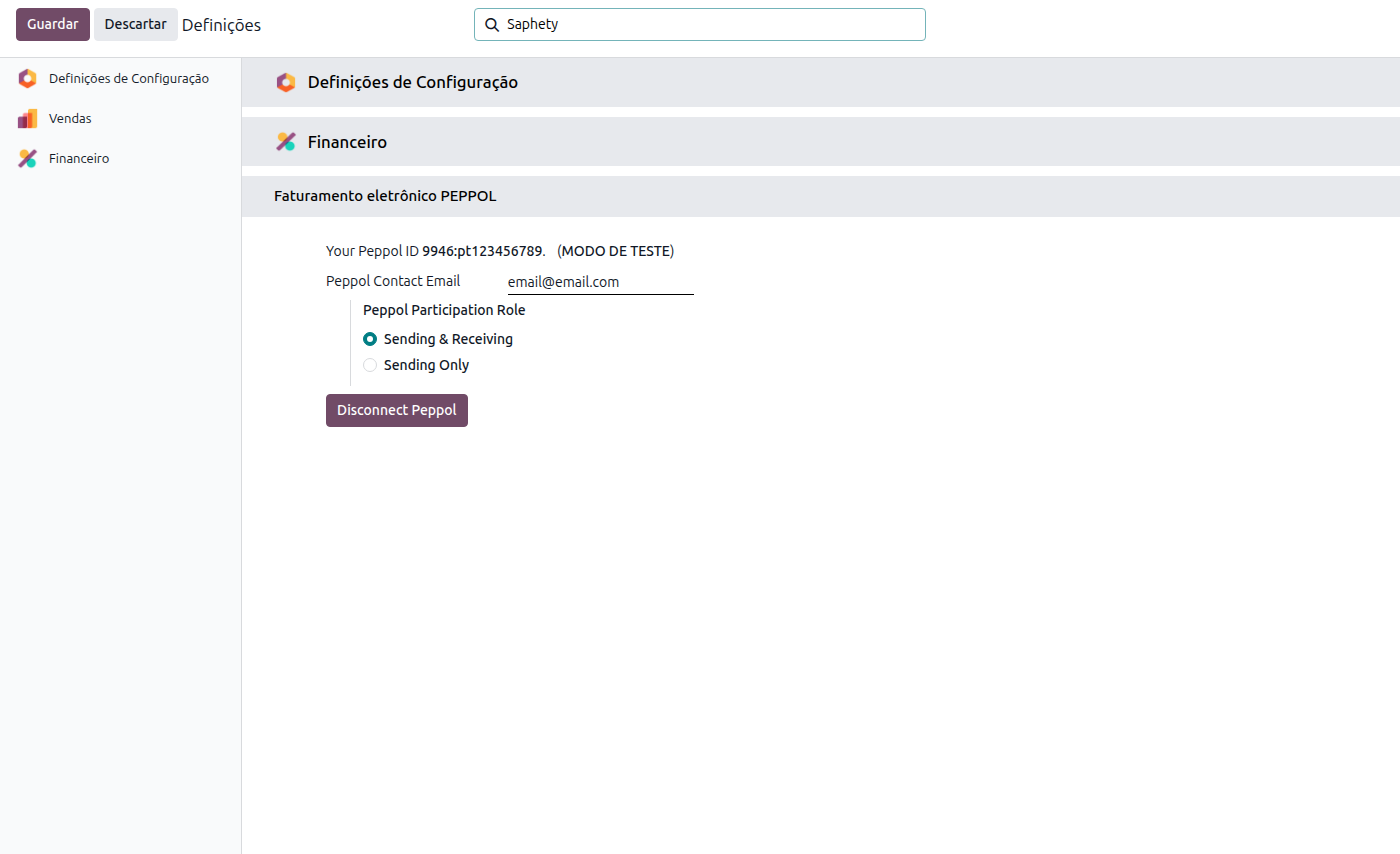
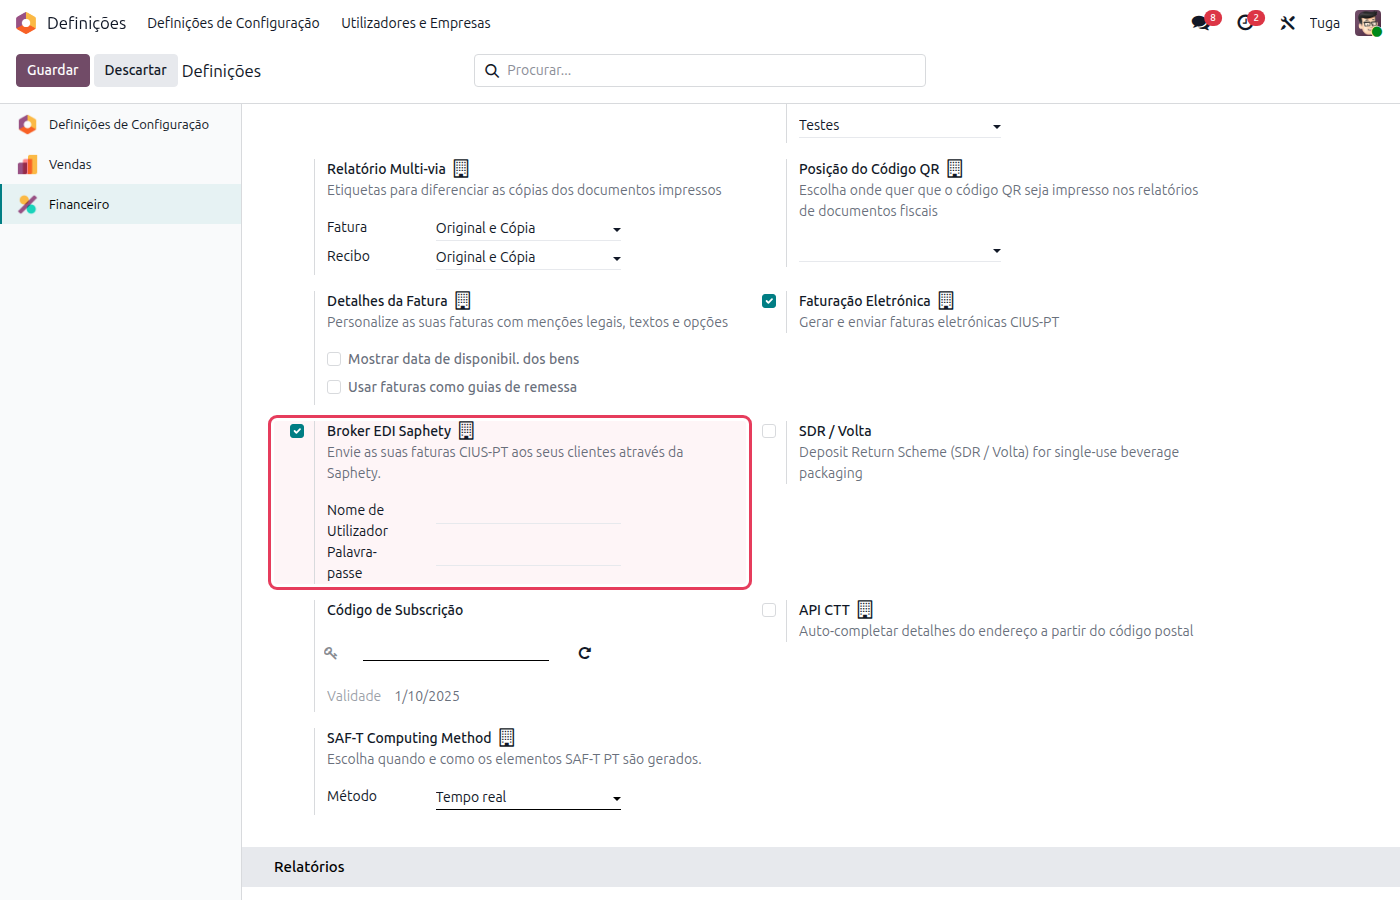
[19.0][IMP] ptplus_edi_saphety e ptplus_edi_sale: screenshots com highlights e nova página edi_sale
- Actualiza saphety.rst com screenshots destacados (Saphety settings, partner VAT
  button, invoice EDI tab) e ajusta instrução de navegação (Financeiro no menu)
- Cria edi_sale.rst com documentação do módulo Portugal - Vendas B2G e EDI:
  campos Nº do Compromisso e Nº do Cabimento na encomenda e na fatura
- Adiciona entrada edi_sale no toctree de invoicing.rst

Claude-Session: https://claude.ai/code/session_01SAWPkukETcvozPENEUNff4

diff --git a/content/applications/invoicing/edi_sale.rst b/content/applications/invoicing/edi_sale.rst
@@ -1,0 +1,74 @@
+:nosearch:
+
+==================================
+Portugal - Vendas B2G e EDI
+==================================
+O módulo **Portugal - Vendas B2G e EDI** estende o fluxo de vendas com suporte
+a contratos B2G (Business to Government): adiciona os campos **Nº do Compromisso**
+e **Nº do Cabimento** às encomendas de venda e propaga-os automaticamente para as
+faturas geradas.
+
+.. raw:: html
+
+    <div style="text-align: center; margin: 20px 0;">
+        ─── ✦ ───
+    </div>
+
+.. important::
+    Esta funcionalidade não está disponível na loja Odoo. Para ter acesso à mesma,
+    terá de solicitar a sua instalação e ativação à **Exo Software**.
+
+.. note::
+    Este módulo é instalado automaticamente quando os módulos
+    :doc:`Faturação Eletrónica (CIUS-PT) <e-invoicing>` e
+    **Portugal - Vendas** estão presentes.
+
+Utilização
+==========
+
+Nº do Compromisso e Nº do Cabimento na Encomenda
+--------------------------------------------------
+
+Em contextos B2G, o cliente público (Estado, Câmara, etc.) fornece dois
+referencias obrigatórias para a faturação:
+
+.. list-table::
+   :header-rows: 1
+   :widths: 30 70
+
+   * - Campo
+     - Descrição
+   * - **Nº do Compromisso**
+     - Número atribuído pelo cliente B2G para comprometer a verba
+       orçamental correspondente a esta compra.
+   * - **Nº do Cabimento**
+     - Número que identifica a reserva prévia de dotação orçamental.
+
+Estes campos ficam disponíveis no separador :guilabel:`Outra Informação` da
+encomenda de venda, na secção **Faturação**.
+
+.. image:: edi_sale/v19_edi_sale_order_b2g_fields.png
+   :align: center
+
+.. tip::
+    Os campos **Nº do Compromisso** e **Nº do Cabimento** aparecem apenas em
+    encomendas que utilizam uma série documental portuguesa (Tipo de Documento
+    Fiscal configurado). Certifique-se de que a série documental está definida
+    na encomenda antes de preencher estes campos.
+
+Propagação Automática para a Fatura
+-------------------------------------
+
+Ao criar uma fatura a partir de uma encomenda de venda com estes campos
+preenchidos, o Odoo propaga-os automaticamente. Na fatura resultante, os
+valores aparecem também no separador :guilabel:`Outra Informação`.
+
+.. image:: edi_sale/v19_edi_sale_invoice_b2g_fields.png
+   :align: center
+
+Inclusão no Documento Impresso
+---------------------------------
+
+Quando a encomenda de venda é impressa (botão :guilabel:`Imprimir`), os campos
+**Commitment No.** e **Fitting No.** são incluídos automaticamente na área de
+informações do documento PDF, desde que estejam preenchidos.

diff --git a/content/applications/invoicing/saphety.rst b/content/applications/invoicing/saphety.rst
@@ -30,15 +30,15 @@ Ativar o Broker e Configurar Credenciais
 -----------------------------------------
 
 Aceda à app **Faturação / Contabilidade**, vá ao menu
-:menuselection:`Configuração --> Configurações` e pesquise por **Saphety** na barra
-de pesquisa.
+:menuselection:`Configuração --> Configurações` e clique em **Financeiro** no menu
+lateral. Localize a opção **Broker EDI Saphety** na secção Portugal.
 
 .. image:: saphety/v19_saphety_settings.png
    :align: center
 
-Na secção **Portugal**, ative a opção **Broker EDI Saphety** e, após a ativação,
-preencha o **Nome de utilizador** e a **Palavra-passe** da conta Saphety da sua
-empresa. Guarde as definições.
+Ative a opção **Broker EDI Saphety** e, após a ativação, preencha o
+**Nome de Utilizador** e a **Palavra-passe** da conta Saphety da sua empresa.
+Guarde as definições.
 
 Verificar a Conectividade com a Plataforma Saphety
 ----------------------------------------------------

diff --git a/content/applications/invoicing.rst b/content/applications/invoicing.rst
@@ -20,6 +20,7 @@ Explore mais sobre os nossos add-ons de Faturação, Pagamentos e Stock
     invoicing/odoo_process
     invoicing/e-invoicing
     invoicing/saphety
+    invoicing/edi_sale
     invoicing/fsp
     invoicing/self-billing
     invoicing/pos
